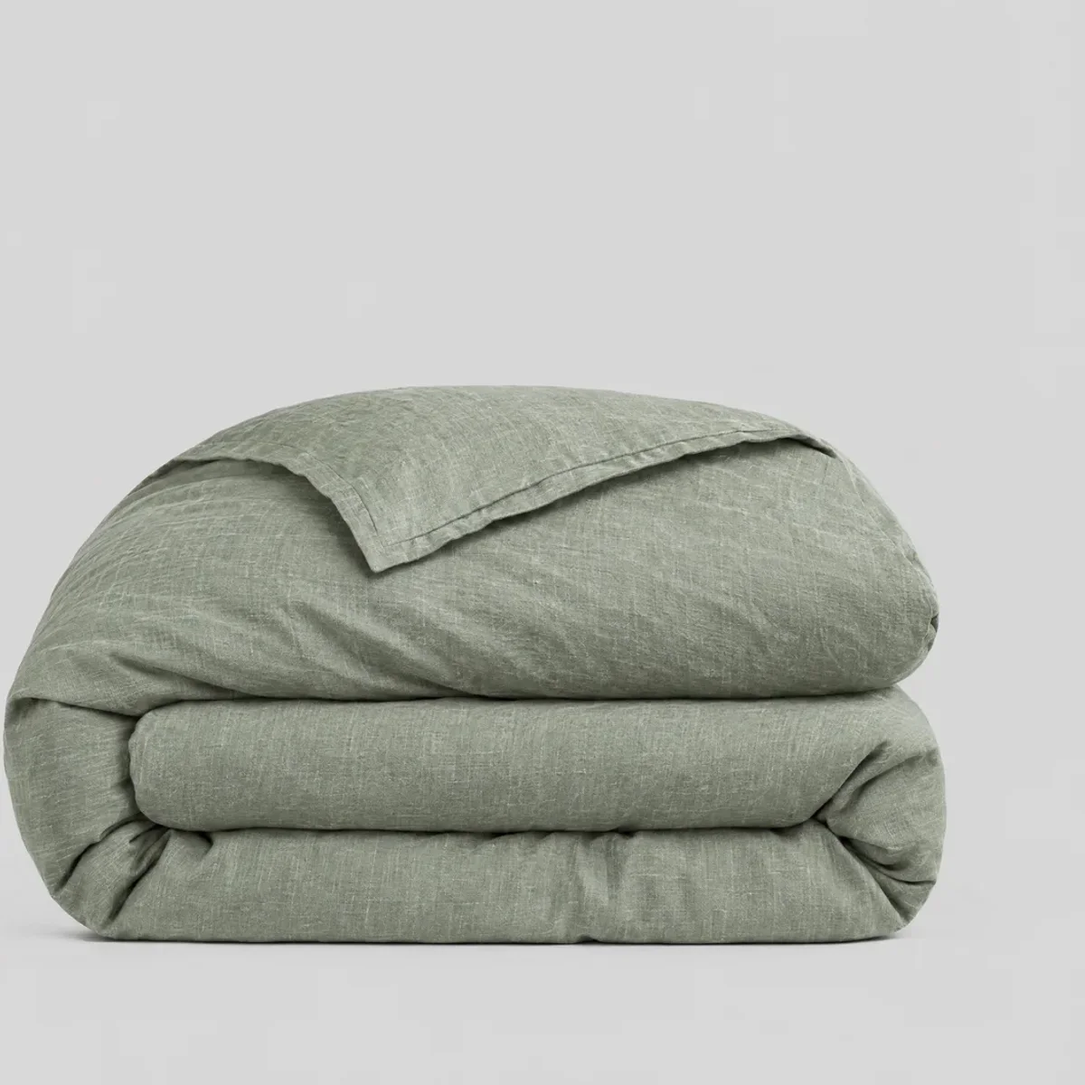
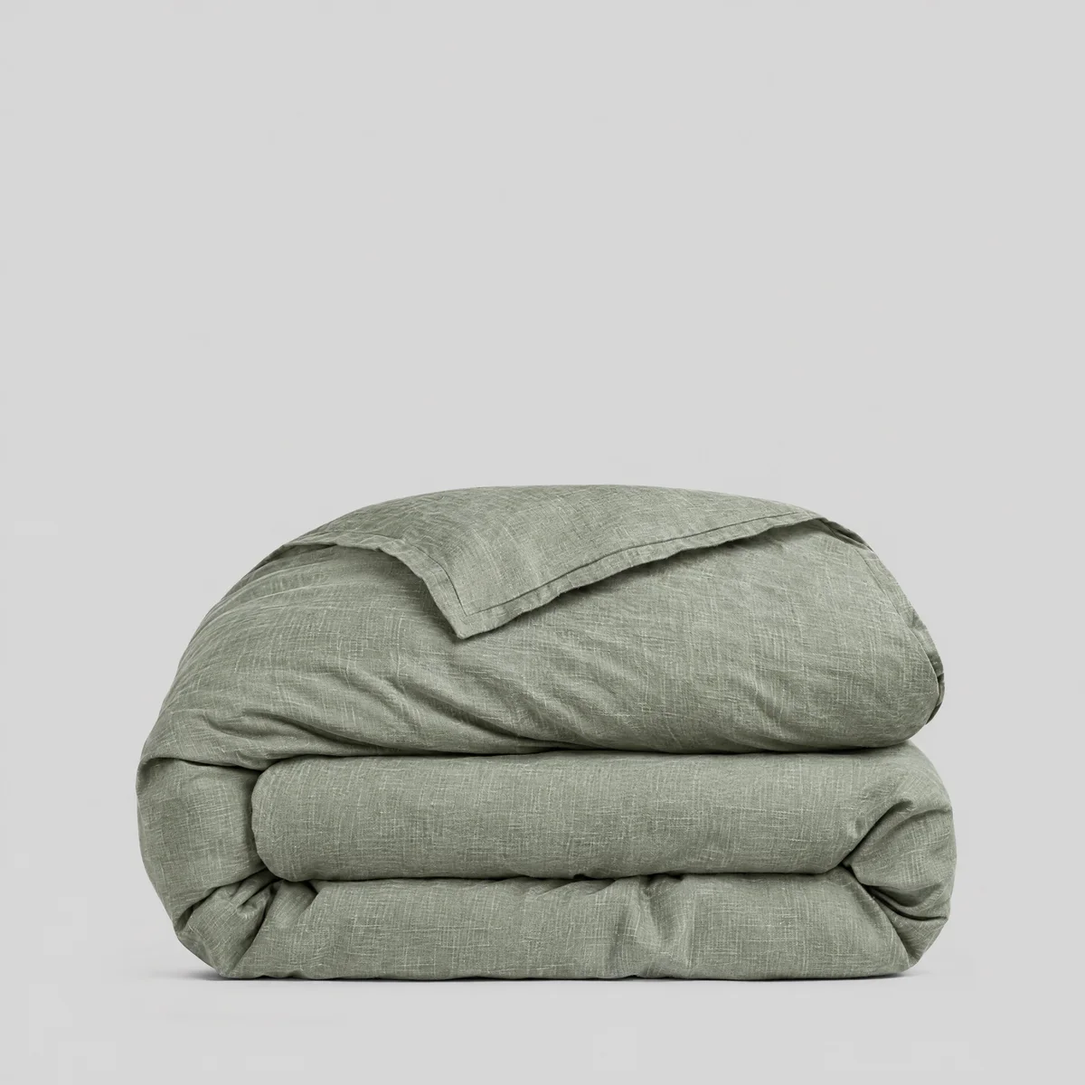
被套叠放主图恢复未裁剪构图并打满主图边框：LINEN3 五色 + DUVSET 米色（whiteBg 标记调整，2026-10-15）

diff --git a/src/data/materials-map.ts b/src/data/materials-map.ts
@@ -335,11 +335,11 @@ export const MATERIALS_MAP: Record<string, MaterialsEntry> = {
   "1688-1051650740507-c3": {"title":"Korean Style Double Lace Duvet Cover Soft Cotton Like Cloud Yarn Sweet Cherry Print Romantic Floral Princess Girls Lace Trim Cozy Bedroom 200 x 150 cm (Pink)","bullets":"SOFT CLOUD LIKE FABRIC: Crafted with cotton like cloud soft yarn, this duvet cover offers a gentle and plush feel for a cozy bed. The smooth surface is comfortable to touch and layers well with blankets and pillows.\n\nKOREAN DOUBLE LACE DESIGN: The duvet cover features double lace trim along the edges, bringing a romantic and elegant look. The delicate lace detail adds a soft, feminine touch to bedroom decor.\n\nSWEET CHERRY PRINT: A fresh cherry pattern is scattered across a light pink background for a sweet and playful style. The cherry and floral motifs make this duvet cover a charming focal point in a girls bedroom, dorm room, or guest room.\n\nPACKAGE COMPONENTS: Duvet Cover x 1: 200 x 150cm. This listing includes the duvet cover in the listed size, so you can check your bed dimensions and coordinate with your preferred pillows and blankets.\n\nROMANTIC BEDROOM ACCENT: The lace edges, cherry print, and soft pink tone come together to brighten the room. This duvet cover pairs well with white furniture, sheer curtains, and plush decorative pillows for a cozy, styled space.","sku":"","images":["/images/products/1688-1051650740507-C3/1.webp","/images/products/1688-1051650740507-C3/2.webp","/images/products/1688-1051650740507-C3/3.webp","/images/products/1688-1051650740507-C3/4.webp","/images/products/1688-1051650740507-C3/5.webp","/images/products/1688-1051650740507-C3/6.webp"],"whiteBg":[false,false,false,false,true,false]},
   "1688-1048207560416-c2": {"title":"Cooling Washed Ice Silk Dual-Tone Quilt Cover Soft Breathable Skin-Friendly Lightweight Smooth Bedding For Comfortable Sleep And Cozy Bedroom Decor 150 x 200 cm (Cream Green)","bullets":"Cooling Ice Silk Comfort: The quilt cover is made with washed ice silk fabric that feels smooth and cool to the touch. Its lightweight, breathable construction helps reduce stuffiness and supports a comfortable sleep environment. The soft surface is gentle on skin and suitable for relaxing rest.\n\nDual-Tone Reversible Style: The dual-tone design pairs a soft green side with a creamy side, so you can switch the look to match your bedroom decor. The elegant color combination adds a calm, modern touch to your bedding and works well with many interior styles.\n\nWhat You Get: The component included is Quilt Cover x 1: 200 x 150cm. Please check the size before use to ensure it fits your bed setup. This single component makes it easy to coordinate with your existing pillows and sheets.\n\nSoft Washed Texture: The washed finish gives the fabric a soft, flexible hand feel that drapes neatly over the bed. The smooth surface minimizes friction and feels comfortable against skin. It is a thoughtful choice for those who prefer lightweight bedding with a silky touch.\n\nEasy Care and Everyday Use: The quilt cover can be washed as needed and is simple to maintain for regular use. Its lightweight design makes it easy to fold, store, and refresh. Use it as a standalone cover or coordinate it with other bedding pieces for a clean, layered look.","sku":"","images":["/images/products/1688-1048207560416-C2/1.webp","/images/products/1688-1048207560416-C2/2.webp","/images/products/1688-1048207560416-C2/3.webp","/images/products/1688-1048207560416-C2/4.webp","/images/products/1688-1048207560416-C2/5.webp","/images/products/1688-1048207560416-C2/6.webp"],"whiteBg":[false,false,false,false,true,false]},
   "1688-1061371343572": {"title":"Luxurious Silky Cooling Ice Silk Duvet Cover Breathable Smooth Solid Color Bedding For Dormitory Use Lightweight Soft Cozy 230 x 200 cm (Vintage Milk Tea)","bullets":"SILKY ICE SILK COOLING FABRIC: Made from smooth ice silk material, this duvet cover has a cool-to-the-touch surface and a sleek, silky hand feel. The fabric is lightweight and breathable, helping create a comfortable sleep setting for warm rooms and restful nights.\n\nSMOOTH BREATHABLE COMFORT: The breathable weave allows air to move through the fabric, while the soft drape adds a gentle, cozy layer over your duvet. It feels smooth against the skin and is suitable for those who prefer lightweight bedding.\n\nMINIMAL SOLID COLOR DESIGN: The Vintage Milk Tea shade offers a warm neutral tone that complements modern, minimalist, and vintage-style bedrooms. The solid color look creates a clean, calm atmosphere and pairs easily with other bedding accessories.\n\nCOMPONENT AND SIZE: Package includes 1 x Duvet Cover: 230 x 200cm. The duvet insert or comforter is not included. Please check the measurements before ordering to ensure the right fit for your duvet.\n\nEASY CARE AND VERSATILE USE: Designed for regular bedroom use, this duvet cover works well in dormitories, apartments, guest rooms, and master bedrooms. Machine wash cold on a gentle cycle and tumble dry low for simple care; do not bleach.","sku":"","images":["/images/products/1688-1061371343572/1.webp","/images/products/1688-1061371343572/2.webp","/images/products/1688-1061371343572/3.webp","/images/products/1688-1061371343572/4.webp","/images/products/1688-1061371343572/5.webp","/images/products/1688-1061371343572/6.webp"],"whiteBg":[false,false,false,false,true,false]},
-  "linen3-sage-duvet": {"title":"Cooling 100% Washed Linen Duvet Cover Soft Breathable Lightweight Solid Color Bedding Cover For Bedroom Guest Room Easy Care (Sage Green)","bullets":"STANDALONE DUVET COVER: One duvet cover only, comforter not included. Slip it over your duvet to instantly refresh the bedroom.\n\n100% LINEN FABRIC: Woven from natural flax, the pure linen weave feels soft with a naturally textured surface and promotes airflow for year-round comfort.\n\nCALM SAGE GREEN STYLE: A muted, earthy sage that pairs well with white, cream, wood tones and greenery, fitting farmhouse, rustic, boho and minimalist rooms.\n\nSECURE FIT DESIGN: Hidden button closure plus interior corner ties keep the duvet insert from shifting through the night.\n\nEASY CARE MACHINE WASHABLE: Machine wash cold, tumble dry low. The natural texture softens with every wash for a relaxed, lived-in look.","sku":"LINEN3-SAGE-DUVET","images":["/images/products/LINEN3-SAGE-DUVET/1.webp","/images/products/LINEN3-SAGE-DUVET/2.webp","/images/products/LINEN3-SAGE-DUVET/3.webp","/images/products/LINEN3-SAGE-DUVET/4.webp","/images/products/LINEN3-SAGE-DUVET/5.webp","/images/products/LINEN3-SAGE-DUVET/6.webp"],"whiteBg":[true,false,false,false,false,true]},
-  "linen3-charcoal-duvet": {"title":"Cooling 100% Washed Linen Duvet Cover Soft Breathable Lightweight Solid Color Bedding Cover For Bedroom Guest Room Easy Care (Charcoal Grey)","bullets":"STANDALONE DUVET COVER: One duvet cover only, comforter not included. Slip it over your duvet to instantly refresh the bedroom.\n\n100% LINEN FABRIC: Woven from natural flax, the pure linen weave feels soft with a naturally textured surface and promotes airflow for year-round comfort.\n\nDEEP CHARCOAL GREY STYLE: A rich, muted charcoal that grounds the room, pairing well with white, beige, rust and brass accents, fitting modern, industrial, farmhouse and minimalist rooms.\n\nSECURE FIT DESIGN: Hidden button closure plus interior corner ties keep the duvet insert from shifting through the night.\n\nEASY CARE MACHINE WASHABLE: Machine wash cold, tumble dry low. The natural texture softens with every wash for a relaxed, lived-in look.","sku":"LINEN3-CHARCOAL-DUVET","images":["/images/products/LINEN3-CHARCOAL-DUVET/1.webp","/images/products/LINEN3-CHARCOAL-DUVET/2.webp","/images/products/LINEN3-CHARCOAL-DUVET/3.webp","/images/products/LINEN3-CHARCOAL-DUVET/4.webp","/images/products/LINEN3-CHARCOAL-DUVET/5.webp","/images/products/LINEN3-CHARCOAL-DUVET/6.webp"],"whiteBg":[true,false,false,false,false,true]},
-  "linen3-dustyblue-duvet": {"title":"Cooling 100% Washed Linen Duvet Cover Soft Breathable Lightweight Solid Color Bedding Cover For Bedroom Guest Room Easy Care (Dusty Blue)","bullets":"STANDALONE DUVET COVER: One duvet cover only, comforter not included. Slip it over your duvet to instantly refresh the bedroom.\n\n100% LINEN FABRIC: Woven from natural flax, the pure linen weave feels soft with a naturally textured surface and promotes airflow for year-round comfort.\n\nSOFT DUSTY BLUE STYLE: A gentle, weathered blue that feels calm and airy, pairing well with white, cream, grey and natural wood, fitting coastal, cottage, farmhouse and minimalist rooms.\n\nSECURE FIT DESIGN: Hidden button closure plus interior corner ties keep the duvet insert from shifting through the night.\n\nEASY CARE MACHINE WASHABLE: Machine wash cold, tumble dry low. The natural texture softens with every wash for a relaxed, lived-in look.","sku":"LINEN3-DUSTYBLUE-DUVET","images":["/images/products/LINEN3-DUSTYBLUE-DUVET/1.webp","/images/products/LINEN3-DUSTYBLUE-DUVET/2.webp","/images/products/LINEN3-DUSTYBLUE-DUVET/3.webp","/images/products/LINEN3-DUSTYBLUE-DUVET/4.webp","/images/products/LINEN3-DUSTYBLUE-DUVET/5.webp","/images/products/LINEN3-DUSTYBLUE-DUVET/6.webp"],"whiteBg":[true,false,false,false,false,true]},
-  "linen3-ivory-duvet": {"title":"Cooling 100% Washed Linen Duvet Cover Soft Breathable Lightweight Solid Color Bedding Cover For Bedroom Guest Room Easy Care (Ivory)","bullets":"STANDALONE DUVET COVER: One duvet cover only, comforter not included. Slip it over your duvet to instantly refresh the bedroom.\n\n100% LINEN FABRIC: Woven from natural flax, the pure linen weave feels soft with a naturally textured surface and promotes airflow for year-round comfort.\n\nCREAMY IVORY STYLE: A warm ivory that brightens the bed without starkness, pairing well with any palette, especially beige, sage, brown and black, fitting modern, classic, boho and minimalist rooms.\n\nSECURE FIT DESIGN: Hidden button closure plus interior corner ties keep the duvet insert from shifting through the night.\n\nEASY CARE MACHINE WASHABLE: Machine wash cold, tumble dry low. The natural texture softens with every wash for a relaxed, lived-in look.","sku":"LINEN3-IVORY-DUVET","images":["/images/products/LINEN3-IVORY-DUVET/1.webp","/images/products/LINEN3-IVORY-DUVET/2.webp","/images/products/LINEN3-IVORY-DUVET/3.webp","/images/products/LINEN3-IVORY-DUVET/4.webp","/images/products/LINEN3-IVORY-DUVET/5.webp","/images/products/LINEN3-IVORY-DUVET/6.webp"],"whiteBg":[true,false,false,false,false,true]},
-  "linen3-oatmeal-duvet": {"title":"Cooling 100% Washed Linen Duvet Cover Soft Breathable Lightweight Solid Color Bedding Cover For Bedroom Guest Room Easy Care (Oatmeal)","bullets":"STANDALONE DUVET COVER: One duvet cover only, comforter not included. Slip it over your duvet to instantly refresh the bedroom.\n\n100% LINEN FABRIC: Woven from natural flax, the pure linen weave feels soft with a naturally textured surface and promotes airflow for year-round comfort.\n\nWARM OATMEAL STYLE: A cozy heathered oatmeal neutral with soft earthy warmth, pairing well with white, brown, terracotta and black, fitting farmhouse, rustic, boho and minimalist rooms.\n\nSECURE FIT DESIGN: Hidden button closure plus interior corner ties keep the duvet insert from shifting through the night.\n\nEASY CARE MACHINE WASHABLE: Machine wash cold, tumble dry low. The natural texture softens with every wash for a relaxed, lived-in look.","sku":"LINEN3-OATMEAL-DUVET","images":["/images/products/LINEN3-OATMEAL-DUVET/1.webp","/images/products/LINEN3-OATMEAL-DUVET/2.webp","/images/products/LINEN3-OATMEAL-DUVET/3.webp","/images/products/LINEN3-OATMEAL-DUVET/4.webp","/images/products/LINEN3-OATMEAL-DUVET/5.webp","/images/products/LINEN3-OATMEAL-DUVET/6.webp"],"whiteBg":[true,false,false,false,false,true]},
+  "linen3-sage-duvet": {"title":"Cooling 100% Washed Linen Duvet Cover Soft Breathable Lightweight Solid Color Bedding Cover For Bedroom Guest Room Easy Care (Sage Green)","bullets":"STANDALONE DUVET COVER: One duvet cover only, comforter not included. Slip it over your duvet to instantly refresh the bedroom.\n\n100% LINEN FABRIC: Woven from natural flax, the pure linen weave feels soft with a naturally textured surface and promotes airflow for year-round comfort.\n\nCALM SAGE GREEN STYLE: A muted, earthy sage that pairs well with white, cream, wood tones and greenery, fitting farmhouse, rustic, boho and minimalist rooms.\n\nSECURE FIT DESIGN: Hidden button closure plus interior corner ties keep the duvet insert from shifting through the night.\n\nEASY CARE MACHINE WASHABLE: Machine wash cold, tumble dry low. The natural texture softens with every wash for a relaxed, lived-in look.","sku":"LINEN3-SAGE-DUVET","images":["/images/products/LINEN3-SAGE-DUVET/1.webp","/images/products/LINEN3-SAGE-DUVET/2.webp","/images/products/LINEN3-SAGE-DUVET/3.webp","/images/products/LINEN3-SAGE-DUVET/4.webp","/images/products/LINEN3-SAGE-DUVET/5.webp","/images/products/LINEN3-SAGE-DUVET/6.webp"],"whiteBg":[false,false,false,false,false,true]},
+  "linen3-charcoal-duvet": {"title":"Cooling 100% Washed Linen Duvet Cover Soft Breathable Lightweight Solid Color Bedding Cover For Bedroom Guest Room Easy Care (Charcoal Grey)","bullets":"STANDALONE DUVET COVER: One duvet cover only, comforter not included. Slip it over your duvet to instantly refresh the bedroom.\n\n100% LINEN FABRIC: Woven from natural flax, the pure linen weave feels soft with a naturally textured surface and promotes airflow for year-round comfort.\n\nDEEP CHARCOAL GREY STYLE: A rich, muted charcoal that grounds the room, pairing well with white, beige, rust and brass accents, fitting modern, industrial, farmhouse and minimalist rooms.\n\nSECURE FIT DESIGN: Hidden button closure plus interior corner ties keep the duvet insert from shifting through the night.\n\nEASY CARE MACHINE WASHABLE: Machine wash cold, tumble dry low. The natural texture softens with every wash for a relaxed, lived-in look.","sku":"LINEN3-CHARCOAL-DUVET","images":["/images/products/LINEN3-CHARCOAL-DUVET/1.webp","/images/products/LINEN3-CHARCOAL-DUVET/2.webp","/images/products/LINEN3-CHARCOAL-DUVET/3.webp","/images/products/LINEN3-CHARCOAL-DUVET/4.webp","/images/products/LINEN3-CHARCOAL-DUVET/5.webp","/images/products/LINEN3-CHARCOAL-DUVET/6.webp"],"whiteBg":[false,false,false,false,false,true]},
+  "linen3-dustyblue-duvet": {"title":"Cooling 100% Washed Linen Duvet Cover Soft Breathable Lightweight Solid Color Bedding Cover For Bedroom Guest Room Easy Care (Dusty Blue)","bullets":"STANDALONE DUVET COVER: One duvet cover only, comforter not included. Slip it over your duvet to instantly refresh the bedroom.\n\n100% LINEN FABRIC: Woven from natural flax, the pure linen weave feels soft with a naturally textured surface and promotes airflow for year-round comfort.\n\nSOFT DUSTY BLUE STYLE: A gentle, weathered blue that feels calm and airy, pairing well with white, cream, grey and natural wood, fitting coastal, cottage, farmhouse and minimalist rooms.\n\nSECURE FIT DESIGN: Hidden button closure plus interior corner ties keep the duvet insert from shifting through the night.\n\nEASY CARE MACHINE WASHABLE: Machine wash cold, tumble dry low. The natural texture softens with every wash for a relaxed, lived-in look.","sku":"LINEN3-DUSTYBLUE-DUVET","images":["/images/products/LINEN3-DUSTYBLUE-DUVET/1.webp","/images/products/LINEN3-DUSTYBLUE-DUVET/2.webp","/images/products/LINEN3-DUSTYBLUE-DUVET/3.webp","/images/products/LINEN3-DUSTYBLUE-DUVET/4.webp","/images/products/LINEN3-DUSTYBLUE-DUVET/5.webp","/images/products/LINEN3-DUSTYBLUE-DUVET/6.webp"],"whiteBg":[false,false,false,false,false,true]},
+  "linen3-ivory-duvet": {"title":"Cooling 100% Washed Linen Duvet Cover Soft Breathable Lightweight Solid Color Bedding Cover For Bedroom Guest Room Easy Care (Ivory)","bullets":"STANDALONE DUVET COVER: One duvet cover only, comforter not included. Slip it over your duvet to instantly refresh the bedroom.\n\n100% LINEN FABRIC: Woven from natural flax, the pure linen weave feels soft with a naturally textured surface and promotes airflow for year-round comfort.\n\nCREAMY IVORY STYLE: A warm ivory that brightens the bed without starkness, pairing well with any palette, especially beige, sage, brown and black, fitting modern, classic, boho and minimalist rooms.\n\nSECURE FIT DESIGN: Hidden button closure plus interior corner ties keep the duvet insert from shifting through the night.\n\nEASY CARE MACHINE WASHABLE: Machine wash cold, tumble dry low. The natural texture softens with every wash for a relaxed, lived-in look.","sku":"LINEN3-IVORY-DUVET","images":["/images/products/LINEN3-IVORY-DUVET/1.webp","/images/products/LINEN3-IVORY-DUVET/2.webp","/images/products/LINEN3-IVORY-DUVET/3.webp","/images/products/LINEN3-IVORY-DUVET/4.webp","/images/products/LINEN3-IVORY-DUVET/5.webp","/images/products/LINEN3-IVORY-DUVET/6.webp"],"whiteBg":[false,false,false,false,false,true]},
+  "linen3-oatmeal-duvet": {"title":"Cooling 100% Washed Linen Duvet Cover Soft Breathable Lightweight Solid Color Bedding Cover For Bedroom Guest Room Easy Care (Oatmeal)","bullets":"STANDALONE DUVET COVER: One duvet cover only, comforter not included. Slip it over your duvet to instantly refresh the bedroom.\n\n100% LINEN FABRIC: Woven from natural flax, the pure linen weave feels soft with a naturally textured surface and promotes airflow for year-round comfort.\n\nWARM OATMEAL STYLE: A cozy heathered oatmeal neutral with soft earthy warmth, pairing well with white, brown, terracotta and black, fitting farmhouse, rustic, boho and minimalist rooms.\n\nSECURE FIT DESIGN: Hidden button closure plus interior corner ties keep the duvet insert from shifting through the night.\n\nEASY CARE MACHINE WASHABLE: Machine wash cold, tumble dry low. The natural texture softens with every wash for a relaxed, lived-in look.","sku":"LINEN3-OATMEAL-DUVET","images":["/images/products/LINEN3-OATMEAL-DUVET/1.webp","/images/products/LINEN3-OATMEAL-DUVET/2.webp","/images/products/LINEN3-OATMEAL-DUVET/3.webp","/images/products/LINEN3-OATMEAL-DUVET/4.webp","/images/products/LINEN3-OATMEAL-DUVET/5.webp","/images/products/LINEN3-OATMEAL-DUVET/6.webp"],"whiteBg":[false,false,false,false,false,true]},
   "1688-913882303732": {"title":"Memory Foam U Shaped Neck Pillow for Travel, Airplane, Office Nap, Adjustable Cervical Support Pillow with Washable Cover, Reversible Design, Eggshell Storage Case, 23 x 23 x 12 cm (Violet)","bullets":"ERGONOMIC MEMORY FOAM SUPPORT: High-density slow-rebound memory foam cradles your neck and head to ease pressure on long trips and naps, with a reversible two-sided design for personalized comfort.\n\nADJUSTABLE SLIDING CORD FIT: Press the unlock buckle and slide to fine-tune tightness in seconds - one size comfortably fits different neck sizes without pinching or slipping.\n\nROLLS INTO AN EGGSHELL CASE: The pillow rolls up and zips into the included eggshell storage case (about 18 x 15 x 11 cm, 0.8 lb) with a carry strap that clips to your backpack or luggage.\n\nREMOVABLE, WASHABLE COVER: Skin-friendly breathable knit cover with a hidden zipper removes in seconds - machine wash cold (30 C) and hang dry; memory foam core is spot-clean only.\n\nTRAVEL-READY EVERYWHERE: Lightweight 250 g (8.8 oz) U-shaped pillow for airplanes, trains, cars, office desks and home reading - a practical gift for commuters and frequent flyers.","sku":"US-JWUYON","images":["/images/products/1688-913882303732/1.webp", "/images/products/1688-913882303732/2.webp", "/images/products/1688-913882303732/3.webp", "/images/products/1688-913882303732/4.webp", "/images/products/1688-913882303732/5.webp", "/images/products/1688-913882303732/6.webp"],"whiteBg":[false,false,false,false,false,false]},
   "1688-913882303732-c3": {"title":"Lightweight Memory Foam Neck Pillow for Airplane Travel, Reversible U Shaped Cervical Support Pillow with Adjustable Drawstring and Washable Cover, 23 x 23 x 12 cm (Green)","bullets":"ERGONOMIC MEMORY FOAM SUPPORT: High-density slow-rebound memory foam cradles your neck and head to ease pressure on long trips and naps, with a reversible two-sided design for personalized comfort.\n\nADJUSTABLE SLIDING CORD FIT: Press the unlock buckle and slide to fine-tune tightness in seconds - one size comfortably fits different neck sizes without pinching or slipping.\n\nROLLS INTO AN EGG-SHAPED CASE: The pillow rolls up and zips into the included compact egg-shaped storage case (about 16 x 16 x 14 cm, 0.95 lb) with a carry strap that clips to your backpack or luggage.\n\nREMOVABLE, WASHABLE COVER: Skin-friendly breathable knit cover with a hidden zipper removes in seconds - machine wash cold (30 C) and hang dry; memory foam core is spot-clean only.\n\nTRAVEL-READY EVERYWHERE: Lightweight 250 g (8.8 oz) U-shaped pillow for airplanes, trains, cars, office desks and home reading - a practical gift for commuters and frequent flyers.","sku":"US-PHTBFY","images":["/images/products/1688-913882303732-c3/1.webp", "/images/products/1688-913882303732-c3/2.webp", "/images/products/1688-913882303732-c3/3.webp", "/images/products/1688-913882303732-c3/4.webp", "/images/products/1688-913882303732-c3/5.webp", "/images/products/1688-913882303732-c3/6.webp"],"whiteBg":[false,false,false,false,false,false]},
   "1688-913882303732-c4": {"title":"Memory Foam Travel Neck Pillow with Egg Shaped Storage Case Reversible Washable Cover Adjustable U Shaped Cervical Support Pillow for Airplane Nap 23 x 23 x 12 cm (Pink)","bullets":"ERGONOMIC MEMORY FOAM SUPPORT: High-density slow-rebound memory foam cradles your neck and head to ease pressure on long trips and naps, with a reversible two-sided design for personalized comfort.\n\nADJUSTABLE SLIDING CORD FIT: Press the unlock buckle and slide to fine-tune tightness in seconds - one size comfortably fits different neck sizes without pinching or slipping.\n\nROLLS INTO AN EGG-SHAPED CASE: The pillow rolls up and zips into the included compact egg-shaped storage case (about 16 x 16 x 14 cm, 0.95 lb) with a carry strap that clips to your backpack or luggage.\n\nREMOVABLE, WASHABLE COVER: Skin-friendly breathable knit cover with a hidden zipper removes in seconds - machine wash cold (30 C) and hang dry; memory foam core is spot-clean only.\n\nTRAVEL-READY EVERYWHERE: Lightweight 250 g (8.8 oz) U-shaped pillow for airplanes, trains, cars, office desks and home reading - a practical gift for commuters and frequent flyers.","sku":"US-QD9KZT","images":["/images/products/1688-913882303732-c4/1.webp", "/images/products/1688-913882303732-c4/2.webp", "/images/products/1688-913882303732-c4/3.webp", "/images/products/1688-913882303732-c4/4.webp", "/images/products/1688-913882303732-c4/5.webp", "/images/products/1688-913882303732-c4/6.webp"],"whiteBg":[false,false,false,false,false,false]},
@@ -347,7 +347,7 @@ export const MATERIALS_MAP: Record<string, MaterialsEntry> = {
   "1688-913882303732-c6": {"title":"Memory Foam U-Shaped Travel Neck Pillow with Egg Storage Case, Portable Adjustable Cervical Support for Airplane Nap Sleeping and Rest, 23 x 23 x 12 cm (Ivory White)","bullets":"ERGONOMIC MEMORY FOAM SUPPORT: High-density slow-rebound memory foam cradles your neck and head to ease pressure on long trips and naps, with a reversible two-sided design for personalized comfort.\n\nADJUSTABLE SLIDING CORD FIT: Press the unlock buckle and slide to fine-tune tightness in seconds - one size comfortably fits different neck sizes without pinching or slipping.\n\nROLLS INTO AN EGG-SHAPED CASE: The pillow rolls up and zips into the included compact egg-shaped storage case (about 16 x 16 x 14 cm, 0.95 lb) with a carry strap that clips to your backpack or luggage.\n\nREMOVABLE, WASHABLE COVER: Skin-friendly breathable knit cover with a hidden zipper removes in seconds - machine wash cold (30 C) and hang dry; memory foam core is spot-clean only.\n\nTRAVEL-READY EVERYWHERE: Lightweight 250 g (8.8 oz) U-shaped pillow for airplanes, trains, cars, office desks and home reading - a practical gift for commuters and frequent flyers.","sku":"US-KSMLJC","images":["/images/products/1688-913882303732-c6/1.webp", "/images/products/1688-913882303732-c6/2.webp", "/images/products/1688-913882303732-c6/3.webp", "/images/products/1688-913882303732-c6/4.webp", "/images/products/1688-913882303732-c6/5.webp", "/images/products/1688-913882303732-c6/6.webp"],"whiteBg":[false,false,false,false,false,false]},
   "duvset-gray-duvet": {"title":"Soft Washed Cotton-Like Duvet Cover Breathable Lightweight Solid Color Bedding Cover With Zipper Closure For Bedroom Guest Room Easy Care (Grey)","bullets":"STANDALONE DUVET COVER: One duvet cover only, comforter not included. Slip it over your duvet to instantly refresh the bedroom.\n\nSOFT WASHED COTTON-LIKE FABRIC: Garment-washed for a naturally soft, breathable feel with a relaxed, slightly wrinkled texture that is gentle on skin and promotes airflow for year-round comfort.\n\nCALM NEUTRAL GREY STYLE: An easy-going grey that grounds the room, pairing well with white, beige, navy and wood tones, fitting modern, minimalist, farmhouse and Scandinavian rooms.\n\nSECURE FIT DESIGN: Hidden zipper closure plus interior corner ties keep the duvet insert from shifting through the night.\n\nEASY CARE MACHINE WASHABLE: Machine wash cold, tumble dry low. The wrinkle-resistant washed finish keeps the cover looking fresh with minimal effort.","sku":"DUVSET-GRAY-DUVET","images":["/images/products/DUVSET-GRAY-DUVET/1.webp","/images/products/DUVSET-GRAY-DUVET/2.webp","/images/products/DUVSET-GRAY-DUVET/3.webp","/images/products/DUVSET-GRAY-DUVET/4.webp","/images/products/DUVSET-GRAY-DUVET/5.webp","/images/products/DUVSET-GRAY-DUVET/6.webp"],"whiteBg":[true,false,false,false,false,true]},
   "duvset-pink-duvet": {"title":"Soft Washed Cotton-Like Duvet Cover Breathable Lightweight Solid Color Bedding Cover With Zipper Closure For Bedroom Guest Room Easy Care (Pink)","bullets":"STANDALONE DUVET COVER: One duvet cover only, comforter not included. Slip it over your duvet to instantly refresh the bedroom.\n\nSOFT WASHED COTTON-LIKE FABRIC: Garment-washed for a naturally soft, breathable feel with a relaxed, slightly wrinkled texture that is gentle on skin and promotes airflow for year-round comfort.\n\nGENTLE BLUSH PINK STYLE: A soft, muted pink that adds quiet warmth, pairing well with white, cream, grey and gold accents, fitting cottage, shabby chic, boho and modern rooms.\n\nSECURE FIT DESIGN: Hidden zipper closure plus interior corner ties keep the duvet insert from shifting through the night.\n\nEASY CARE MACHINE WASHABLE: Machine wash cold, tumble dry low. The wrinkle-resistant washed finish keeps the cover looking fresh with minimal effort.","sku":"DUVSET-PINK-DUVET","images":["/images/products/DUVSET-PINK-DUVET/1.webp","/images/products/DUVSET-PINK-DUVET/2.webp","/images/products/DUVSET-PINK-DUVET/3.webp","/images/products/DUVSET-PINK-DUVET/4.webp","/images/products/DUVSET-PINK-DUVET/5.webp","/images/products/DUVSET-PINK-DUVET/6.webp"],"whiteBg":[true,false,false,false,false,true]},
-  "duvset-beige-duvet": {"title":"Soft Washed Cotton-Like Duvet Cover Breathable Lightweight Solid Color Bedding Cover With Zipper Closure For Bedroom Guest Room Easy Care (Beige)","bullets":"STANDALONE DUVET COVER: One duvet cover only, comforter not included. Slip it over your duvet to instantly refresh the bedroom.\n\nSOFT WASHED COTTON-LIKE FABRIC: Garment-washed for a naturally soft, breathable feel with a relaxed, slightly wrinkled texture that is gentle on skin and promotes airflow for year-round comfort.\n\nWARM BEIGE STYLE: A cozy adaptable neutral that brightens the bed, pairing well with white, brown, terracotta and green, fitting farmhouse, rustic, boho and minimalist rooms.\n\nSECURE FIT DESIGN: Hidden zipper closure plus interior corner ties keep the duvet insert from shifting through the night.\n\nEASY CARE MACHINE WASHABLE: Machine wash cold, tumble dry low. The wrinkle-resistant washed finish keeps the cover looking fresh with minimal effort.","sku":"DUVSET-BEIGE-DUVET","images":["/images/products/DUVSET-BEIGE-DUVET/1.webp","/images/products/DUVSET-BEIGE-DUVET/2.webp","/images/products/DUVSET-BEIGE-DUVET/3.webp","/images/products/DUVSET-BEIGE-DUVET/4.webp","/images/products/DUVSET-BEIGE-DUVET/5.webp","/images/products/DUVSET-BEIGE-DUVET/6.webp"],"whiteBg":[true,false,false,false,false,true]},
+  "duvset-beige-duvet": {"title":"Soft Washed Cotton-Like Duvet Cover Breathable Lightweight Solid Color Bedding Cover With Zipper Closure For Bedroom Guest Room Easy Care (Beige)","bullets":"STANDALONE DUVET COVER: One duvet cover only, comforter not included. Slip it over your duvet to instantly refresh the bedroom.\n\nSOFT WASHED COTTON-LIKE FABRIC: Garment-washed for a naturally soft, breathable feel with a relaxed, slightly wrinkled texture that is gentle on skin and promotes airflow for year-round comfort.\n\nWARM BEIGE STYLE: A cozy adaptable neutral that brightens the bed, pairing well with white, brown, terracotta and green, fitting farmhouse, rustic, boho and minimalist rooms.\n\nSECURE FIT DESIGN: Hidden zipper closure plus interior corner ties keep the duvet insert from shifting through the night.\n\nEASY CARE MACHINE WASHABLE: Machine wash cold, tumble dry low. The wrinkle-resistant washed finish keeps the cover looking fresh with minimal effort.","sku":"DUVSET-BEIGE-DUVET","images":["/images/products/DUVSET-BEIGE-DUVET/1.webp","/images/products/DUVSET-BEIGE-DUVET/2.webp","/images/products/DUVSET-BEIGE-DUVET/3.webp","/images/products/DUVSET-BEIGE-DUVET/4.webp","/images/products/DUVSET-BEIGE-DUVET/5.webp","/images/products/DUVSET-BEIGE-DUVET/6.webp"],"whiteBg":[false,false,false,false,false,true]},
   "duvset-white-duvet": {"title":"Soft Washed Cotton-Like Duvet Cover Breathable Lightweight Solid Color Bedding Cover With Zipper Closure For Bedroom Guest Room Easy Care (White)","bullets":"STANDALONE DUVET COVER: One duvet cover only, comforter not included. Slip it over your duvet to instantly refresh the bedroom.\n\nSOFT WASHED COTTON-LIKE FABRIC: Garment-washed for a naturally soft, breathable feel with a relaxed, slightly wrinkled texture that is gentle on skin and promotes airflow for year-round comfort.\n\nCRISP PURE WHITE STYLE: A clean airy white that suits any space, pairing well with every color palette and bedding layer, fitting modern, classic, coastal and minimalist rooms.\n\nSECURE FIT DESIGN: Hidden zipper closure plus interior corner ties keep the duvet insert from shifting through the night.\n\nEASY CARE MACHINE WASHABLE: Machine wash cold, tumble dry low. The wrinkle-resistant washed finish keeps the cover looking fresh with minimal effort.","sku":"DUVSET-WHITE-DUVET","images":["/images/products/DUVSET-WHITE-DUVET/1.webp","/images/products/DUVSET-WHITE-DUVET/2.webp","/images/products/DUVSET-WHITE-DUVET/3.webp","/images/products/DUVSET-WHITE-DUVET/4.webp","/images/products/DUVSET-WHITE-DUVET/5.webp","/images/products/DUVSET-WHITE-DUVET/6.webp"],"whiteBg":[true,false,false,false,false,true]},
   "mk-pc-cord-caramel": {"title":"Makimoo Corduroy Throw Pillow Covers Set of 2, Soft Ribbed Square Cushion Cases for Sofa Couch Bed, 40 x 40 cm (Caramel)","bullets":"Set of 2 Corduroy Covers: You receive two matching 40 x 40 cm throw pillow covers in Caramel, ready to refresh your sofa, couch or bed.\n\nSoft Ribbed Corduroy: The fine-wale corduroy fabric has a velvety matte texture with subtle vertical stripes, adding cozy depth to any space.\n\nMuted Ins-Style Color: A low-saturation Caramel tone that layers beautifully with neutrals like cream, beige and warm brown.\n\nHidden Zipper Closure: A smooth concealed zipper keeps the look clean and makes the covers easy to remove for washing.\n\nEasy Care: Machine washable on a gentle cycle; the durable fabric keeps its texture and color wash after wash. Inserts not included.","sku":"US-QHZREJ","images":["/images/products/MK-PC-CORD-CARAMEL/1.webp","/images/products/MK-PC-CORD-CARAMEL/2.webp","/images/products/MK-PC-CORD-CARAMEL/3.webp"],"whiteBg":[false,false,false]},
   "mk-pc-cord-caramel-45": {"title":"Makimoo Corduroy Throw Pillow Covers Set of 2, Soft Ribbed Square Cushion Cases for Sofa Couch Bed, 45 x 45 cm (Caramel)","bullets":"Set of 2 Corduroy Covers: You receive two matching 45 x 45 cm throw pillow covers in Caramel, ready to refresh your sofa, couch or bed.\n\nSoft Ribbed Corduroy: The fine-wale corduroy fabric has a velvety matte texture with subtle vertical stripes, adding cozy depth to any space.\n\nMuted Ins-Style Color: A low-saturation Caramel tone that layers beautifully with neutrals like cream, beige and warm brown.\n\nHidden Zipper Closure: A smooth concealed zipper keeps the look clean and makes the covers easy to remove for washing.\n\nEasy Care: Machine washable on a gentle cycle; the durable fabric keeps its texture and color wash after wash. Inserts not included.","sku":"US-TETRXU","images":["/images/products/MK-PC-CORD-CARAMEL-45/1.webp","/images/products/MK-PC-CORD-CARAMEL-45/2.webp","/images/products/MK-PC-CORD-CARAMEL-45/3.webp"],"whiteBg":[false,false,false]},

diff --git a/scripts/seeany-duvet-folded.js b/scripts/seeany-duvet-folded.js
@@ -117,12 +117,8 @@ async function pollTask(uuid) {
       }
     }
     const dest = path.join(OUT, `${job.slug}-duvet-folded.webp`);
-    let img = sharp(buf).resize({ ...dims, fit: 'cover', position: 'attention' });
-    // 1:1 输出直接做"产品上移"裁剪（与 LINEN3 已定稿参数一致：裁 1060 中央偏上再放大回 1200）
-    if (dims.width === 1200 && dims.height === 1200) {
-      img = img.extract({ left: 140, top: 140, width: 1060, height: 1060 }).resize(1200, 1200);
-    }
-    await img.webp({ quality: 84 }).toFile(dest);
+    // 2026-10-15 用户定：不做裁剪，保留原图构图，靠 PDP 排版打满边框
+    await sharp(buf).resize({ ...dims, fit: 'cover', position: 'attention' }).webp({ quality: 84 }).toFile(dest);
     console.log(`  已保存 ${dest}`);
   }
   console.log('全部完成');
